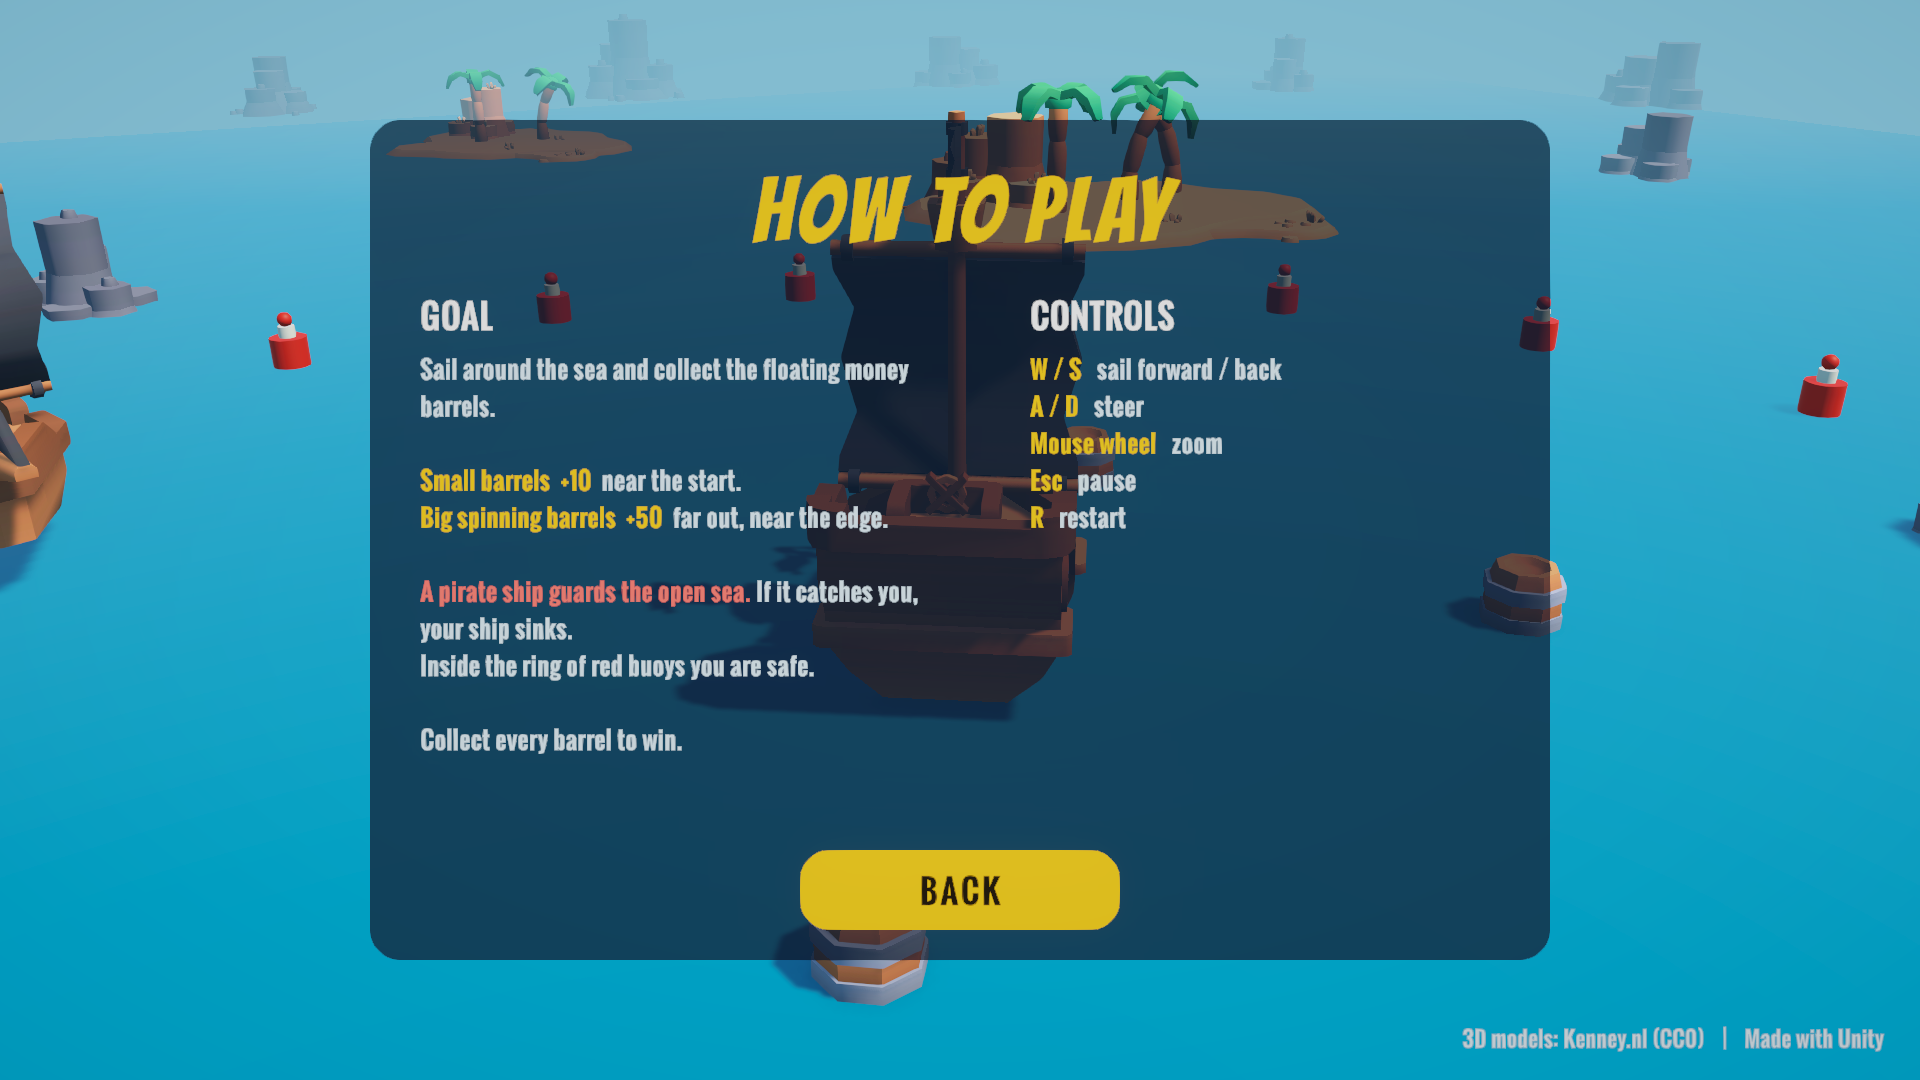
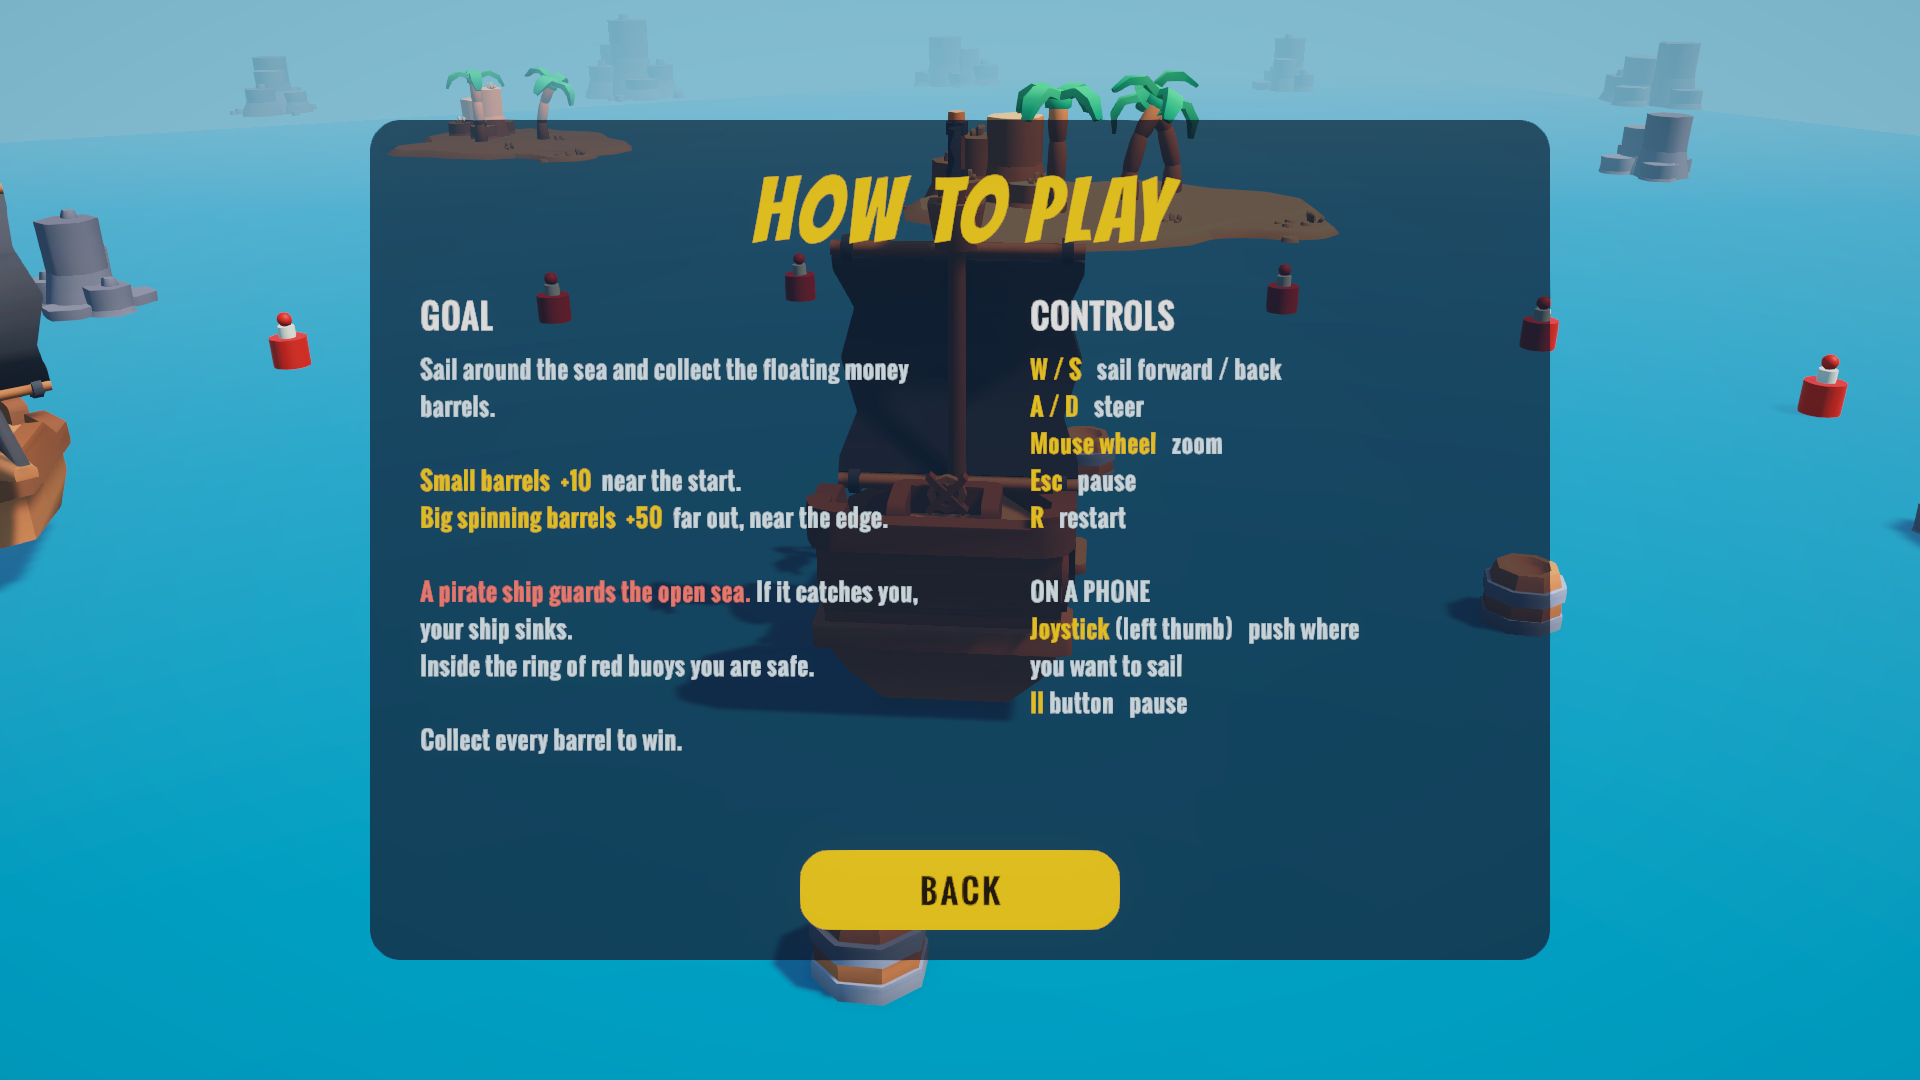
Add Android APK build and document the phone version
BuildAndroid (Tools > Boat Game > Build Android APK) sets the package id,
landscape orientation, IL2CPP + ARM64 and builds Builds/Android/BoatGame.apk.
URP assets were re-serialized by Unity during the Android build.
README explains the touch controls and how to install the APK;
DEVLOG step 12 documents the change.

Changed region(s): [[0.5312, 0.5194, 0.7188, 0.6722], [0.75, 0.9472, 1.0, 0.9778]]

diff --git a/Assets/Editor/BuildAndroid.cs b/Assets/Editor/BuildAndroid.cs
@@ -1,0 +1,57 @@
+using System.IO;
+using System.Linq;
+using UnityEditor;
+using UnityEditor.Build.Reporting;
+using UnityEngine;
+
+/// <summary>
+/// Builds an Android APK into Builds/Android/BoatGame.apk (git-ignored), using the scenes
+/// in the build settings. Landscape only, IL2CPP + ARM64 (required by modern phones).
+/// Menu: Tools/Boat Game/Build Android APK
+/// Batch mode: Unity -batchmode -quit -buildTarget Android -executeMethod BuildAndroid.Build
+/// </summary>
+public static class BuildAndroid
+{
+    const string OutputDir = "Builds/Android";
+
+    [MenuItem("Tools/Boat Game/Build Android APK")]
+    public static string Build()
+    {
+        ApplySettings();
+        var scenes = EditorBuildSettings.scenes.Where(s => s.enabled).Select(s => s.path).ToArray();
+        Directory.CreateDirectory(OutputDir);
+
+        var report = BuildPipeline.BuildPlayer(new BuildPlayerOptions
+        {
+            scenes = scenes,
+            locationPathName = OutputDir + "/BoatGame.apk",
+            target = BuildTarget.Android,
+            options = BuildOptions.None,
+        });
+        var s = report.summary;
+        string result = $"{s.result}: {s.totalErrors} errors, {s.totalSize / (1024 * 1024)} MB, {s.totalTime.TotalSeconds:0}s";
+        Debug.Log("[BuildAndroid] " + result);
+        if (Application.isBatchMode && s.result != BuildResult.Succeeded) EditorApplication.Exit(1);
+        return result;
+    }
+
+    /// <summary>Android player settings for the game (safe to run more than once).</summary>
+    public static void ApplySettings()
+    {
+        PlayerSettings.productName = "Boat Game";
+        PlayerSettings.SetApplicationIdentifier(UnityEditor.Build.NamedBuildTarget.Android, "com.boatgame.midterm");
+        PlayerSettings.bundleVersion = "0.1";
+        PlayerSettings.Android.bundleVersionCode = 1;
+
+        // landscape only (left or right)
+        PlayerSettings.defaultInterfaceOrientation = UIOrientation.AutoRotation;
+        PlayerSettings.allowedAutorotateToLandscapeLeft = true;
+        PlayerSettings.allowedAutorotateToLandscapeRight = true;
+        PlayerSettings.allowedAutorotateToPortrait = false;
+        PlayerSettings.allowedAutorotateToPortraitUpsideDown = false;
+
+        PlayerSettings.SetScriptingBackend(UnityEditor.Build.NamedBuildTarget.Android, ScriptingImplementation.IL2CPP);
+        PlayerSettings.Android.targetArchitectures = AndroidArchitecture.ARM64;
+        EditorUserBuildSettings.buildAppBundle = false;   // a plain .apk that can be installed directly
+    }
+}

diff --git a/docs/DEVLOG.md b/docs/DEVLOG.md
@@ -288,3 +288,31 @@ pause, getting caught, end panel, back to the menu.
 
 `README.md`: start from `MainMenu.unity`, Esc to pause, the main menu and UI folders,
 new screenshots, best score, and font credits (Bangers and Oswald, SIL Open Font License).
+
+---
+
+## Step 12 - Android version (touch controls + APK)
+
+**Goal:** play the same game on an Android phone without changing the PC version.
+
+**Touch controls (shown only on phones):**
+| File | What it does |
+|---|---|
+| `Assets/Scripts/UI/TouchJoystick.cs` | Invisible touch zone over the lower-left of the screen. The joystick base jumps to where the thumb lands and the gold knob follows the drag (radius 100, small dead zone). Exposes `Value` (-1..1). It hides itself when `Application.isMobilePlatform` is false, so PC players never see it. |
+| `Assets/Scripts/Ship/PlayerShipInput.cs` | If the joystick is pushed, the ship **turns toward the joystick direction** (the camera never rotates, so "up" on the stick is "up" on the screen) and the push distance sets the speed. The ship slows down while turning hard so it can come around. Otherwise the keyboard controls work exactly as before. |
+| `Assets/Scripts/UI/GameHud.cs` | New **II** pause button (top right, phones only, hidden while paused or after the game ends). On phones the start hint says "Joystick = sail" instead of mentioning Esc. |
+| `Assets/Scripts/Game/MobileSettings.cs` | On phones only: run at 60 fps (Unity's mobile default is 30) and keep the screen awake. |
+| `SeaMapBuilder.CreateJoystick()` | Builds the joystick (translucent base, dark ring, gold knob) and the pause button into the HUD. |
+| `MainMenuBuilder` | How to Play now also lists the phone controls. |
+
+**APK build:** `Assets/Editor/BuildAndroid.cs`, menu **Tools > Boat Game > Build Android APK**.
+- Package id `com.boatgame.midterm`, version 0.1, landscape only.
+- **IL2CPP + ARM64**, which current phones require (they can't run 32-bit apps).
+- Builds a plain `.apk` (not an app bundle) so it can be installed directly.
+  Output: `Builds/Android/BoatGame.apk` (git-ignored).
+- It also works from the command line:
+  `Unity -batchmode -quit -projectPath . -buildTarget Android -executeMethod BuildAndroid.Build`
+
+**Check:** compiled with no errors. Both scenes rebuilt. The How to Play screenshot shows
+the new phone section. The APK was built in Unity batch mode (Build Finished: Success, 35 MB). `aapt` confirms package `com.boatgame.midterm`, `arm64-v8a` native code, sensor-landscape orientation, min SDK 25 (Android 7.1), target SDK 36. Touch controls must be tested
+on a real phone (or in Unity's Device Simulator), because the joystick only appears on mobile.

diff --git a/README.md b/README.md
@@ -35,6 +35,20 @@ The scenes are generated by editor scripts. After changing the builder code, use
 | R | Restart the level |
 | Mouse / Enter | Use the menu buttons |
 
+## Android (phone)
+
+The same game runs on Android phones (landscape) with touch controls. The PC version is unchanged.
+
+| Touch | Action |
+|---|---|
+| Joystick (left thumb, lower-left of the screen) | Push toward where you want to sail. The ship turns that way, and pushing further goes faster. |
+| **II** button (top right) | Pause |
+| Tap | Menu buttons |
+
+**Install:** copy `BoatGame.apk` to the phone, open it and allow "install unknown apps"
+when Android asks. To build it yourself: **Tools > Boat Game > Build Android APK**
+(needs the Android Build Support module in Unity Hub). The output goes to `Builds/Android/BoatGame.apk`.
+
 ## Goal
 
 Collect all 28 barrels (22 x +10, 6 x +50, max **520** money) without getting caught.
